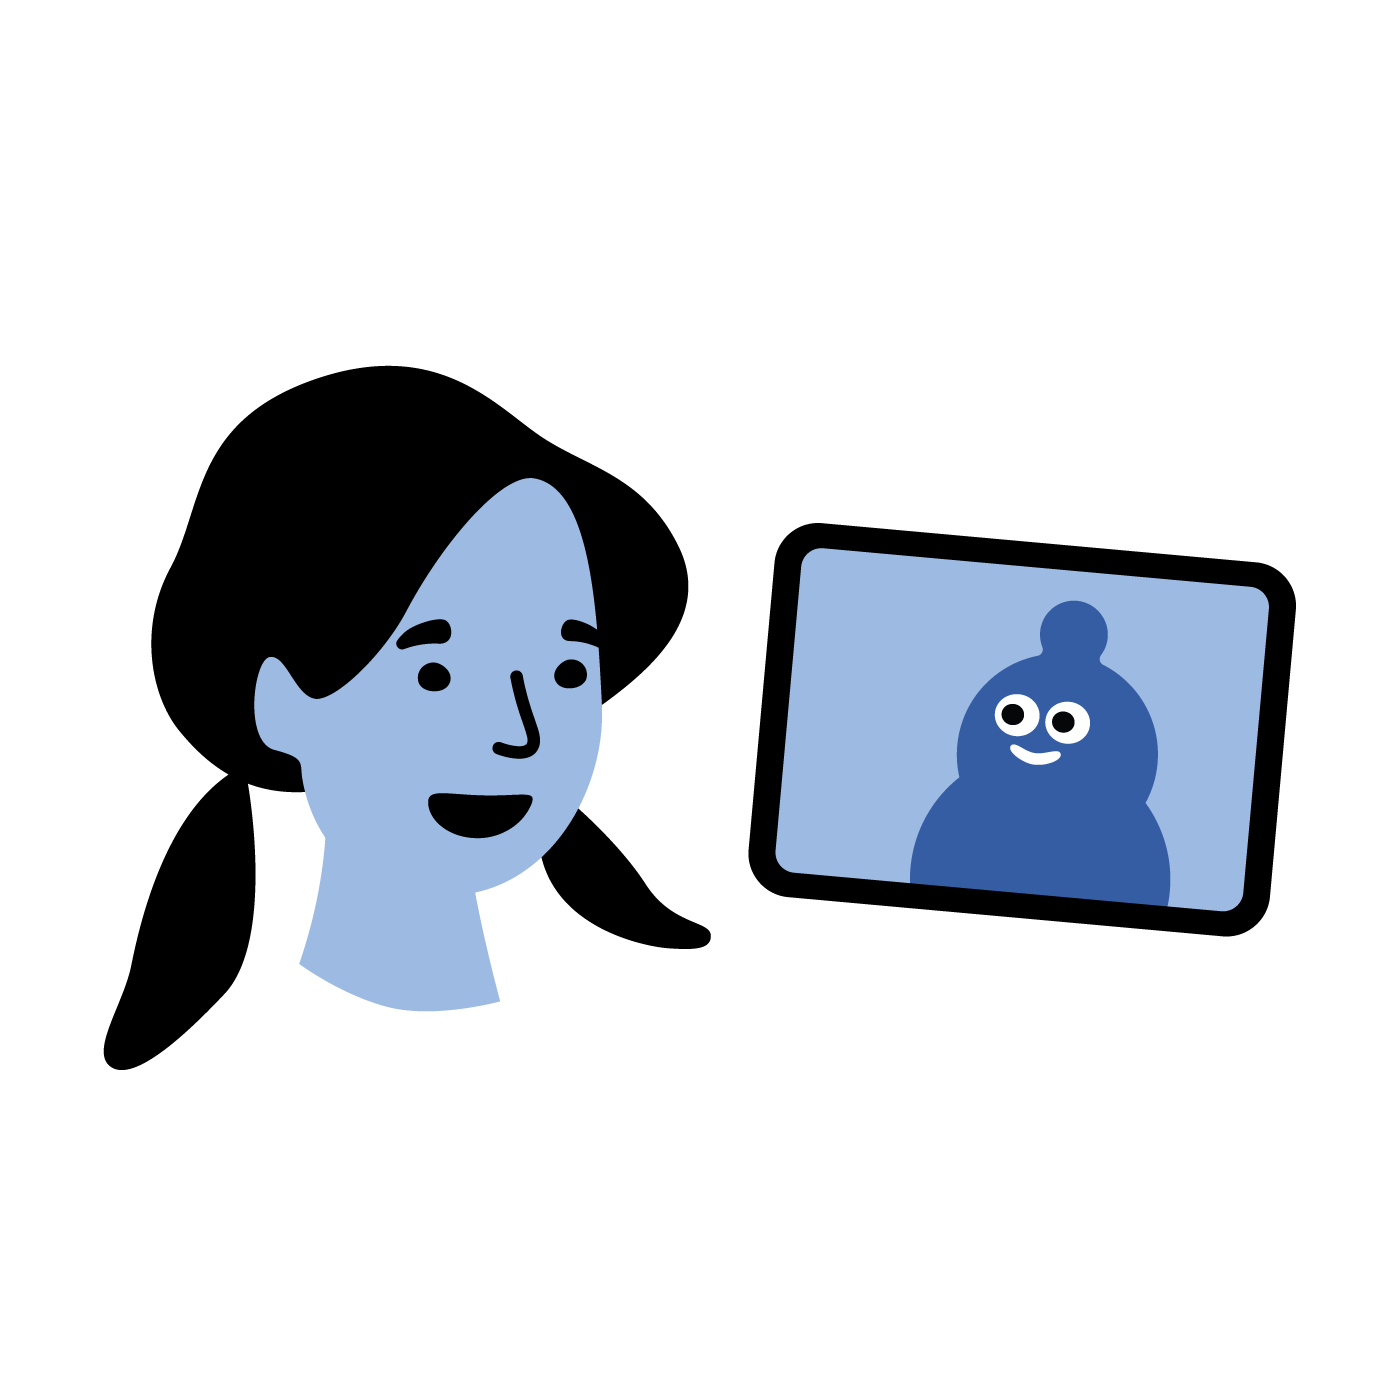
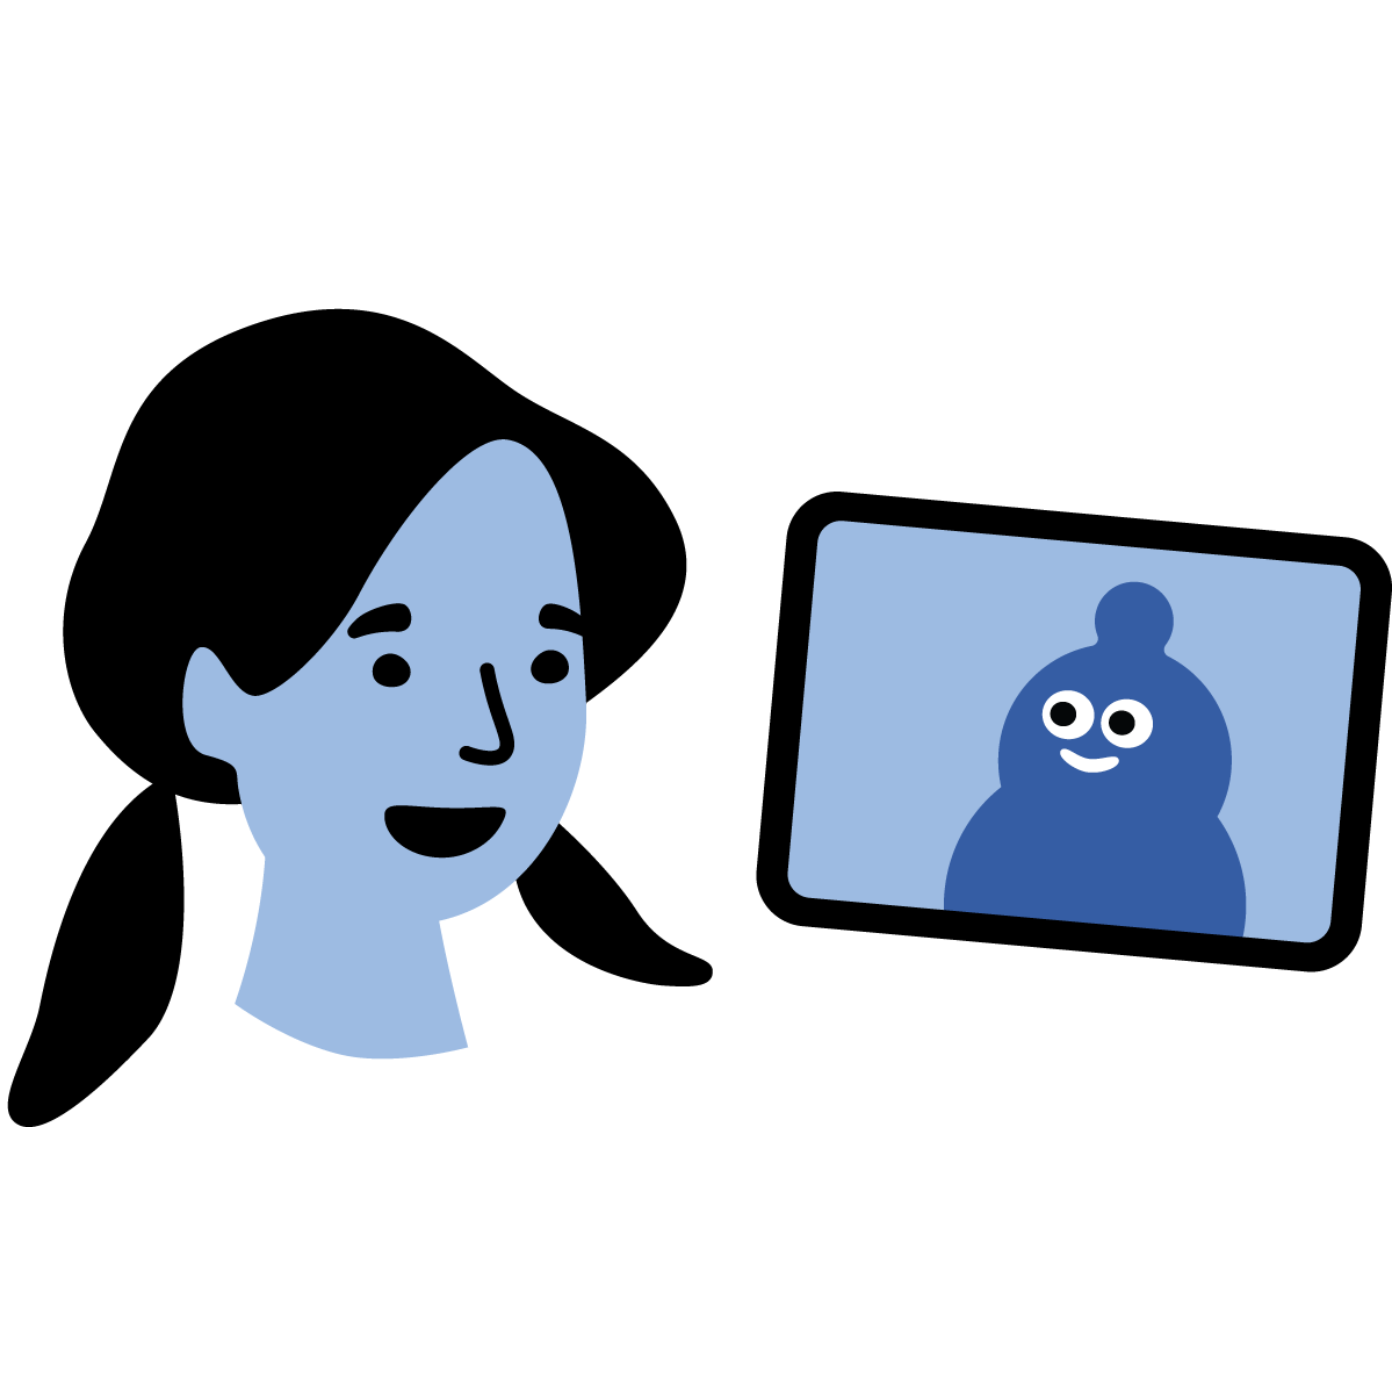
changed header photo padding of about images and video updates

Changed region(s): [[0.0, 0.215, 0.5221, 0.8293], [0.5221, 0.3379, 1.0, 0.7064]]

diff --git a/index.html b/index.html
@@ -72,7 +72,7 @@
     <header class="masthead">
       <div id="videoDiv">
           <div id="videoBlock">
-              <img src="img/hero-image.png" id="videosubstitute" alt="">
+          <img src="img/hero-image.png" id="videosubstitute">
               <video preload="preload" autoplay="autoplay" id="vid" loop="loop">
                   <source src="img/hero-video.webm" type="video/webm"></source>
                   <source src="img/hero-video.mp4" type="video/mp4"></source>
@@ -103,24 +103,18 @@
     <!-- About -->
     <section id="about">
         <div class="container">
-            <!-- <div class="row">
-                <div class="col-lg-12 text-center">
-                    <h2 class="section-heading">Learn more about Loree</h2>
-                </div>
-            </div> -->
 
 
 
             <div class="row about-context">
-                <div class="col-md-4 about-icon centered">
+                <div class="col-md-5 about-icon ">
                     <img class="mx-auto centered" src="img/about/1.png" alt="">
                 </div>
-                <div class="col-md-8 col-centered">
+                <div class="col-md-7 col-centered about-copy">
                     <h2 class="service-heading">Loree is an intelligent companion</h2>
                     <p class="text-muted">She lives inside your devices, is fluent in all languages, and helps introduce culture through language learning into your child’s daily routine. She pays close attention to what you’re saying and caters to your child’s needs as they learn and grow.</p>
                 </div>
             </div>
-
             <div class="row">
                 <div class="col-md-12 about-image">
                     <img class"mx-auto" src="img/about/about1.jpg" alt="">
@@ -130,15 +124,14 @@
 
 
             <div class="row about-context">
-                <div class="col-md-4 about-icon centered">
+                <div class="col-md-5 about-icon ">
                     <img class="mx-auto centered" src="img/about/2.png" alt="">
                 </div>
-                <div class="col-md-8 col-centered">
+                <div class="col-md-7 col-centered about-copy">
                     <h2 class="service-heading">Native language exposure</h2>
                     <p class="text-muted">Loree is an interactive and natural conversationalist. She loves talking to you and your child in the same way you’d share the exciting parts of your day with a loved one. She responds, asks questions, and even laughs.</p>
                 </div>
             </div>
-
             <div class="row">
                 <div class="col-md-12 about-image">
                     <img class"mx-auto" src="img/about/about2.jpg" alt="">
@@ -148,15 +141,14 @@
 
 
             <div class="row about-context">
-                <div class="col-md-4 about-icon centered">
+                <div class="col-md-5 about-icon ">
                     <img class="mx-auto centered" src="img/about/3.png" alt="">
                 </div>
-                <div class="col-md-8 col-centered ab">
+                <div class="col-md-7 col-centered about-copy">
                     <h2 class="service-heading">Customs and traditions through stories</h2>
                     <p class="text-muted">Loree creates original stories and beautiful illustrations with a little help from your child’s imagination. Her interactive storybooks revisit experiences from the day bringing together customs, themes, and traditions unique to your culture. All this to reinforce your family’s unique background.</p>
                 </div>
             </div>
-
             <div class="row">
                 <div class="col-md-12 about-image">
                     <img class"mx-auto" src="img/about/about3.jpg" alt="">
@@ -214,30 +206,30 @@
             <div class="row">
                 <div class="col-sm-3">
                     <div class="team-member">
-                        <a href="http://www.seetommy.com/"><img class="mx-auto rounded-circle" src="img/team/4.jpg" alt=""></a>
-                        <a href="http://www.seetommy.com/"><h4>Tommy Carroll</h4></a>
+                        <a href="http://www.seetommy.com/" target="_blank"><img class="mx-auto rounded-circle" src="img/team/4.jpg" alt=""></a>
+                        <a href="http://www.seetommy.com/" target="_blank"><h4>Tommy Carroll</h4></a>
                         <p class="text-muted">VCU Brandcenter '18</p>
                         </ul>
                     </div>
                 </div>
                 <div class="col-sm-3">
                     <div class="team-member">
-                        <a href="https://www.bluecuevas.com/"><img class="mx-auto rounded-circle" src="img/team/2.jpg" alt=""></a>
-                        <a href="https://www.bluecuevas.com/"><h4>Blue Cuevas</h4></a>
+                        <a href="https://www.bluecuevas.com/" target="_blank"><img class="mx-auto rounded-circle" src="img/team/2.jpg" alt=""></a>
+                        <a href="https://www.bluecuevas.com/" target="_blank"><h4>Blue Cuevas</h4></a>
                         <p class="text-muted">IIT - ID '18</p>
                         </div>
                 </div>
                 <div class="col-sm-3">
                     <div class="team-member">
-                        <a href="http://www.cjahchan.com/"><img class="mx-auto rounded-circle" src="img/team/3.jpg" alt=""></a>
-                        <a href="http://www.cjahchan.com/"><h4>Chantal Jahchan</h4></a>
+                        <a href="http://www.cjahchan.com/" target="_blank"><img class="mx-auto rounded-circle" src="img/team/3.jpg" alt=""></a>
+                        <a href="http://www.cjahchan.com/" target="_blank"><h4>Chantal Jahchan</h4></a>
                         <p class="text-muted">WashU '18</p>
                         </div>
                 </div>
                 <div class="col-sm-3">
                     <div class="team-member">
-                        <a href="http://www.jasonkim.xyz/"><img class="mx-auto rounded-circle" src="img/team/1.jpg" alt=""></a>
-                        <a href="http://www.jasonkim.xyz/"><h4>Jason Kim</h4></a>
+                        <a href="http://www.jasonkim.xyz/" target="_blank"><img class="mx-auto rounded-circle" src="img/team/1.jpg" alt=""></a>
+                        <a href="http://www.jasonkim.xyz/" target="_blank"><h4>Jason Kim</h4></a>
                         <p class="text-muted">RPI '17</p>
                     </div>
                 </div>
@@ -264,7 +256,13 @@
                       <p class="text-muted">Director of Marketing</p>
                   </div>
               </div>
-
+              <div class="col-sm-3">
+                  <div class="team-member">
+                      <img class="mx-auto rounded-circle" src="img/team/8.jpg" alt="">
+                      <h4>Loree</h4>
+                      <p class="text-muted">Product Expert</p>
+                  </div>
+              </div>
             </div>
         </div>
     </section>
@@ -281,19 +279,19 @@
                 <div class="col-md-6">
                     <ul class="list-inline quicklinks footer-link">
                         <li class="list-inline-item">
-                            <a href="#">Case Study</a>
+                            <a href="http://www.momentdesign.com/loree" target="_blank">Case Study</a>
                         </li>
                         <li class="list-inline-item">
                             |
                         </li>
                         <li class="list-inline-item">
-                            <a href="https://medium.com/design-intelligence/loree/home">Process</a>
+                            <a href="https://medium.com/design-intelligence/loree/home" target="_blank">Process</a>
                         </li>
                         <li class="list-inline-item">
                             |
                         </li>
                         <li class="list-inline-item">
-                            <a href="http://www.momentdesign.com/">Moment ©2017</a>
+                            <a href="http://www.momentdesign.com/" target="_blank">Moment ©2017</a>
                         </li>
                     </ul>
                 </div>

diff --git a/css/loree.css b/css/loree.css
@@ -7,12 +7,10 @@
 }
 
 .about-icon img {
-  height: 200px;
+  height: 230px;
 }
 
-.about-image img {
-  width: 100%;
-}
+
 
 .col-centered {
     float: none;
@@ -99,22 +97,20 @@ nav, section {
 
 #videoDiv {
   width: 100%;
-  height: 700px;
+  height: 500px;
   position: relative;
   left: 0px;
   right: 0px;
   width: 100%
 }
 
-#videoDiv video {
-  height: 700px;
-  position: relative;
-}
+
 
 #videoDiv img {
-  height: 700px;
+  height: 80px;
   width: auto;
-  position:  relative;
+  position:  absolute;
+  bottom: 0;
 }
 
 
@@ -136,7 +132,7 @@ nav, section {
 }
 
 #videoMessage {
-  padding:17em 3em 3em 3em;
+  padding:5em 3em 3em 3em;
   margin:0
 }
 
@@ -155,7 +151,7 @@ nav, section {
 #videosubstitute{display:block; width:100%;height:auto}
 
 /* Medium Devices, Desktops */
-@media only screen and (min-width : 992px) {
+@media only screen and (min-width : 780px) {
 #vid{display:block;}
 #videosubstitute{display:none}
 
@@ -163,6 +159,32 @@ nav, section {
   padding:27em 3em 3em 3em;
   margin:0
 }
+
+#videoDiv {
+  width: 100%;
+  height: 700px;
+  position: relative;
+  left: 0px;
+  right: 0px;
+  width: 100%
+  background-image: -webkit-linear-gradient( top , transparent, rgba(0, 0, 0, 0.15));
+  background-image: linear-gradient(to bottom, transparent, rgba(0, 0, 0, 0.15));
+  z-index: 10;
+
+}
+
+#videoDiv video {
+  height: 700px;
+  position: relative;
+}
+
+#videoDiv img {
+  height: 700px;
+  width: auto;
+  position:  relative;
+}
+
+
 }
 
 .tech-icon {
@@ -201,8 +223,27 @@ nav, section {
   .footer-link {
     text-align: right; !important
   }
+  .about-copy {
+    padding: 20px 100px 0 0;
+  }
+
+  .about-image img {
+    width: 100%;
+    padding: 0 100px;
+  }
+}
+
+.about-image img {
+  width: 100%;
 }
 
 .cta-button {
   margin-top: 30px;
+}
+
+.valign-parent {display: table;}
+
+. {
+    display: table-cell;
+    vertical-align: middle;
 }

diff --git a/css/agency.css b/css/agency.css
@@ -115,6 +115,7 @@ body {
 header.masthead {
   text-align: center;
   color: white;
+  background-color: #355DA4;
   background-repeat: no-repeat;
   background-attachment: scroll;
   background-position: center center;
